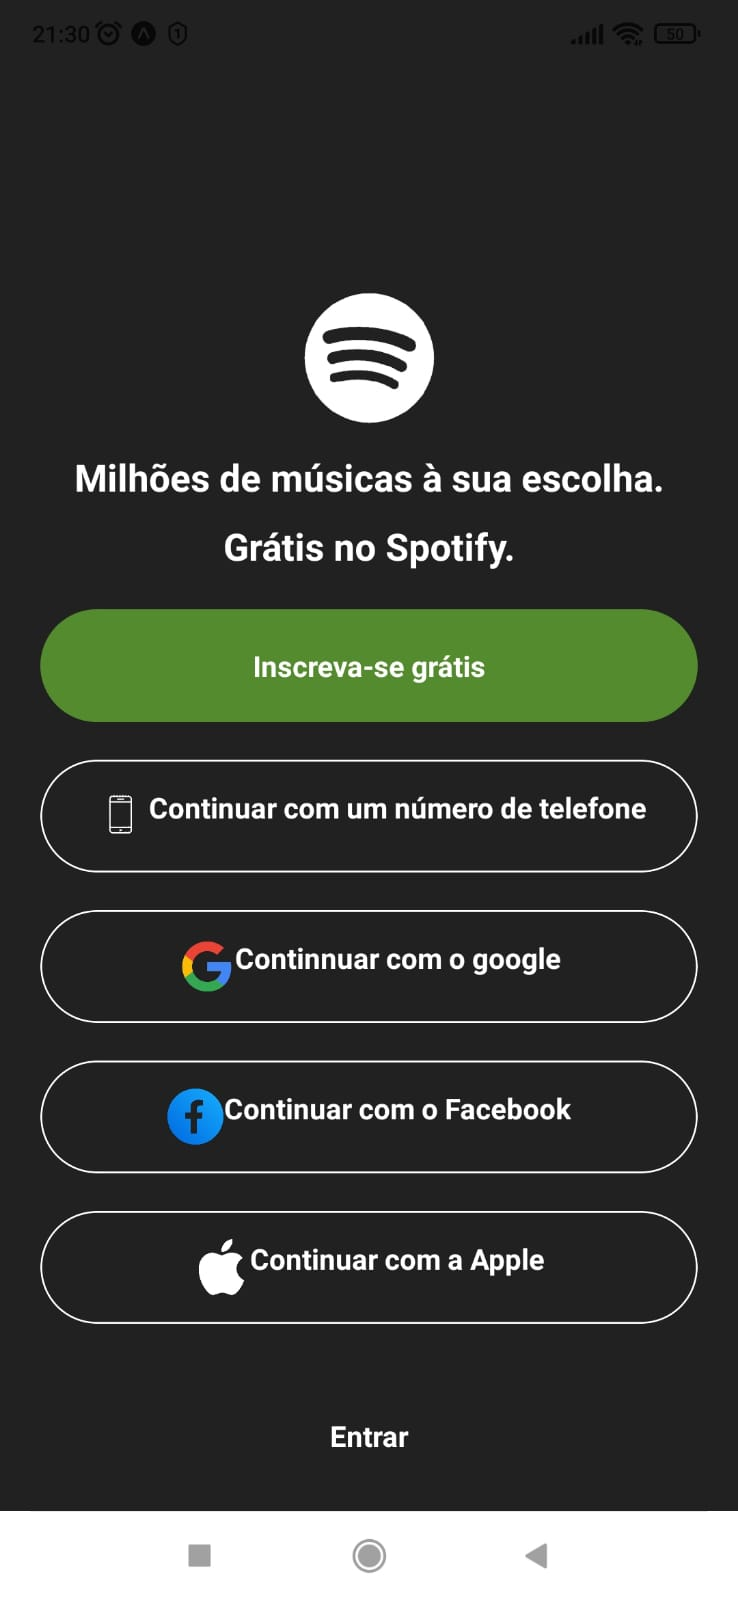
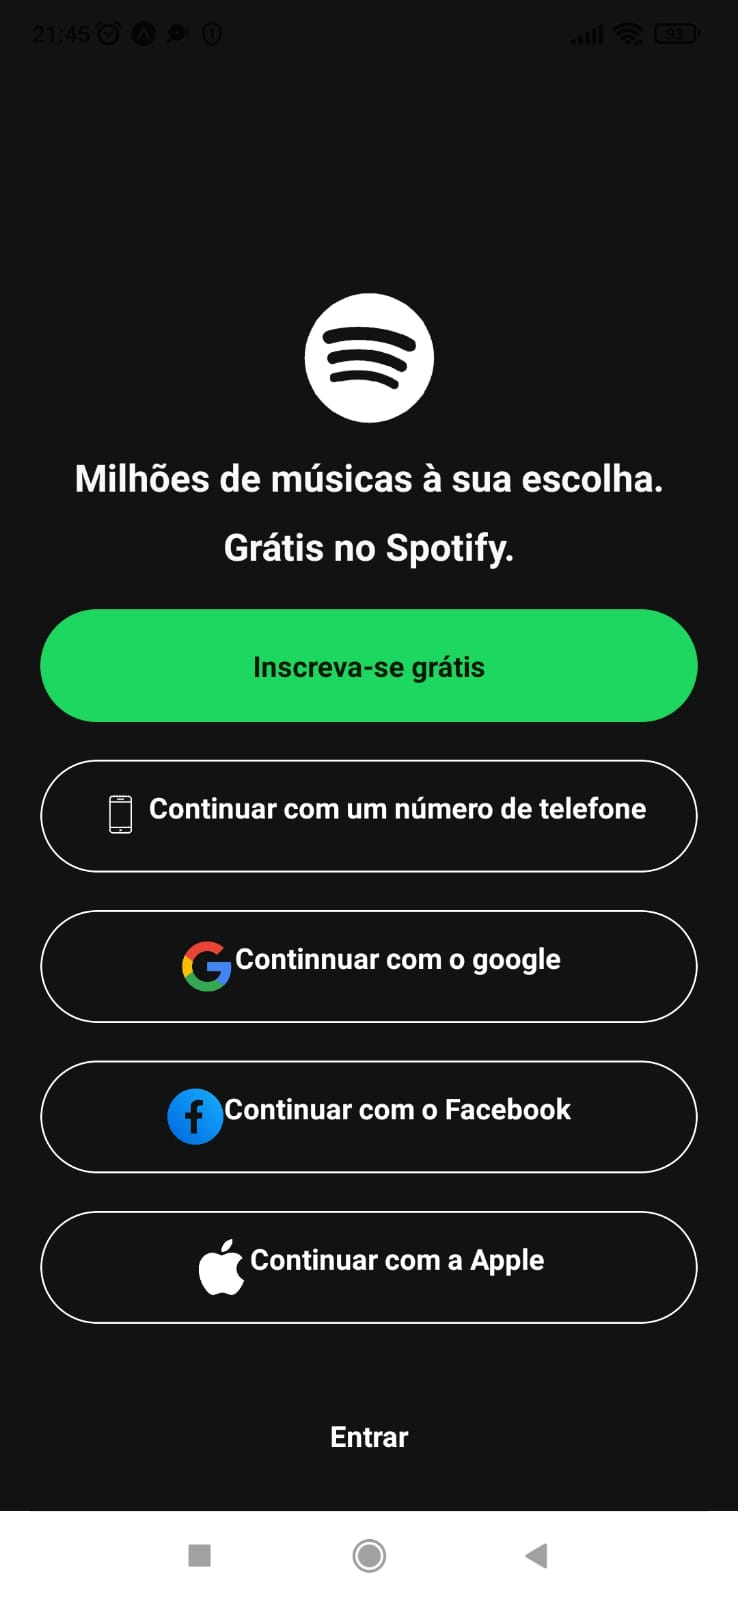
Atualização

Changed region(s): [[0.0312, 0.375, 0.9661, 0.4688], [0.2182, 0.0, 0.2493, 0.0312]]

diff --git a/styles3.ts b/styles3.ts
@@ -4,25 +4,25 @@ export const styles = StyleSheet.create({
     container:
     {
         flex: 1,
-        backgroundColor: "#212121",
+        backgroundColor: "#121212",
         paddingTop: 60,
         alignItems: 'center',
     },
     title1:
     {
-        color: '#fff',
+        color: '#fcfcfc',
         fontSize: 20,
         fontWeight: 'bold',
         paddingBottom: 20
     },
     title:
     {
-        color: '#fff',
+        color: '#fcfcfc',
         fontSize: 24,
         fontWeight: 'bold',
     },
     input: {
-        backgroundColor:'#424242',
+        backgroundColor:'#414141',
         color: '#fff',
         fontSize: 18,
         padding: Platform.OS === 'ios' ? 15 : 10,
@@ -31,7 +31,7 @@ export const styles = StyleSheet.create({
         width: '80%' 
     },
     button: {
-        backgroundColor: '#424242',
+        backgroundColor: '#4d4d4d',
         borderColor: 'white',
         borderWidth: 1,
         padding: 10,
@@ -45,7 +45,7 @@ export const styles = StyleSheet.create({
     },
     button2:
     {
-        backgroundColor: 'transparent',
+        backgroundColor: '#121212',
         borderColor: 'white',
         borderWidth: 1,
         padding: 10,

diff --git a/styles.ts b/styles.ts
@@ -4,7 +4,7 @@ export const styles = StyleSheet.create({
     container:
     {
         flex: 1,
-        backgroundColor: "#212121",
+        backgroundColor: "#121212",
         justifyContent: 'center',
         alignItems: 'center',
         paddingTop: 150,
@@ -12,7 +12,7 @@ export const styles = StyleSheet.create({
     },
     title:
     {
-        color: '#fff',
+        color: '#fafafa',
         fontSize: 20,
         fontWeight: 'bold',
         paddingTop:10
@@ -27,8 +27,8 @@ export const styles = StyleSheet.create({
         width: 30,
         height: 30,
     },
-    buttonWTF: {
-        backgroundColor: '#558B2F',
+    button1: {
+        backgroundColor: '#1ed760',
         borderColor: 'white',
         padding: 10,
         borderRadius: 100, 
@@ -38,6 +38,12 @@ export const styles = StyleSheet.create({
         width: 350,
         height:60
     }, 
+    titleButt:
+    {
+        color: '#021700',
+        fontSize: 15,
+        fontWeight: 'bold'
+    },
     button: {
         backgroundColor: 'transparent',
         borderColor: 'white',

diff --git a/App.tsx b/App.tsx
@@ -23,8 +23,8 @@ const App = () => {
       <Text style={styles.title}>Milhões de músicas à sua escolha.</Text>
       <Text style={styles.title}>Grátis no Spotify.</Text>
       
-      <TouchableOpacity style={styles.buttonWTF}>
-        <Text style={styles.buttonText}>Inscreva-se grátis</Text>
+      <TouchableOpacity style={styles.button1}>
+        <Text style={styles.titleButt}>Inscreva-se grátis</Text>
       </TouchableOpacity>
 
     <FlatList
